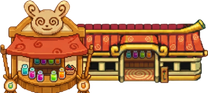
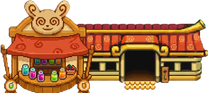
Darken cafe doorway and add light scallops on the threshold
The main entrance no longer shows the interior wall and spiral carpet: the
opening is filled with shadow warming toward the floor, and a row of golden
half-circles spills onto the doorstep, matching Halcyon's cafe door.

Generated from the source image, then re-cut to the exact source frame. The
generator returns an enlarged RGB PNG with the preview checkerboard baked in,
so nettoyer_sortie_generee.py restores transparency by reusing the source
alpha plus the genuinely new coloured pixels (the 875px of scallops).

diff --git a/tileset_pmd/nettoyer_sortie_generee.py b/tileset_pmd/nettoyer_sortie_generee.py
@@ -1,0 +1,80 @@
+from __future__ import annotations
+
+"""Remet une image generee au format exact de la source, fond transparent.
+
+Le generateur renvoie un PNG agrandi et SANS canal alpha : le damier de
+transparence de l'apercu est peint en dur, avec du bruit de compression. Le
+detourer par la couleur laisse toujours un quadrillage residuel.
+
+Methode retenue, bien plus fiable : l'image source possede deja un alpha
+parfait, et la generation est cadree de la meme facon (verifie : ecart moyen
+de 20/255 sur la zone opaque, 220/255 sur le fond). On reutilise donc l'alpha
+de la source, en y ajoutant les zones ou la generation a legitimement ajoute
+de la matiere en dehors du sujet d'origine (ici les festons de lumiere qui
+debordent sous le seuil de la porte).
+
+Usage :
+    python3 nettoyer_sortie_generee.py <source.png> <generee.png> <sortie.png>
+"""
+
+from pathlib import Path
+import sys
+
+from PIL import Image, ImageFilter
+import numpy as np
+
+
+def main() -> int:
+    if len(sys.argv) < 4:
+        print(__doc__)
+        return 1
+    src_p, gen_p, out_p = (Path(a) for a in sys.argv[1:4])
+
+    src = Image.open(src_p).convert("RGBA")
+    gen = Image.open(gen_p).convert("RGB").resize(src.size, Image.LANCZOS)
+    print(f"Source  : {src.size}")
+    print(f"Generee : {Image.open(gen_p).size} -> recadree en {gen.size}")
+
+    sa = np.array(src).astype(int)
+    ga = np.array(gen).astype(int)
+    r, g, b = ga[:, :, 0], ga[:, :, 1], ga[:, :, 2]
+
+    # Le damier est strictement gris neutre. Tout ce qui est colore est du sujet.
+    neutral = (abs(r - g) <= 10) & (abs(g - b) <= 10) & (abs(r - b) <= 10)
+
+    src_alpha = sa[:, :, 3]
+    keep = src_alpha > 8                      # le sujet d'origine
+
+    # Matiere ajoutee par la generation en dehors du sujet : non neutre, donc
+    # ni damier ni fond. C'est ce qui laisse passer les festons de lumiere.
+    added = (~neutral) & (~keep)
+
+    # On ne garde que les ajouts formant des amas francs, pour ecarter le
+    # lisere de compression qui borde le sujet.
+    amas = Image.fromarray((added * 255).astype(np.uint8), "L")
+    amas = amas.filter(ImageFilter.MedianFilter(5))
+    added = np.array(amas) > 127
+
+    mask = keep | added
+
+    out = np.zeros_like(sa, dtype=np.uint8)
+    out[:, :, :3] = ga[:, :, :3]
+    # Alpha : celui de la source la ou elle existe (bords antialiases
+    # preserves), plein pour la matiere ajoutee.
+    alpha = np.where(keep, src_alpha, 0)
+    alpha = np.where(added, 255, alpha)
+    out[:, :, 3] = alpha
+    out[~mask] = (0, 0, 0, 0)
+
+    im = Image.fromarray(out, "RGBA")
+    im.save(out_p)
+
+    print(f"Sujet source   : {int(keep.sum())} px")
+    print(f"Matiere ajoutee: {int(added.sum())} px (festons sous le seuil)")
+    print(f"Sortie  : {im.size}  transparent={int((alpha == 0).sum())} px"
+          f"  -> {out_p}")
+    return 0
+
+
+if __name__ == "__main__":
+    sys.exit(main())

diff --git a/spinda_cafe/README.md b/spinda_cafe/README.md
@@ -30,15 +30,42 @@ soit 8 px de moins que les 101 px de la référence — c'est normal, ton bâtim
 un peu moins haut *proportionnellement*. Le forcer à 101 px l'aurait étiré
 verticalement et déformé.
 
+## Jeu d'ombre et de lumière sur la porte
+
+L'entrée principale est désormais **fermée visuellement** : on ne voit plus le mur
+du fond ni le tapis spiralé à travers l'embrasure. L'ouverture est remplie d'une
+ombre noire qui se réchauffe légèrement vers le sol, et une rangée de **petits
+demi-cercles dorés** déborde sur le seuil, comme la lumière de l'intérieur qui se
+répand devant la porte. C'est le même traitement que la porte du café de Halcyon.
+
+Cette version a été produite par le générateur d'image à partir de
+`spindacafevFINAL.png`, puis remise au format exact de la source.
+
+### Détourage du fond
+
+Le générateur renvoie un PNG agrandi **sans canal alpha** : le damier de
+transparence de l'aperçu est peint en dur, avec du bruit de compression. Le
+détourer par la couleur laissait toujours un quadrillage résiduel visible.
+
+`../tileset_pmd/nettoyer_sortie_generee.py` procède autrement : l'image source a
+déjà un alpha parfait et la génération est cadrée de la même façon (écart moyen
+mesuré : 20/255 sur la zone opaque contre 220/255 sur le fond). Le script
+**réutilise donc l'alpha de la source**, en y ajoutant la matière franchement
+colorée apparue hors du sujet d'origine — ce qui laisse passer les 875 px de
+festons qui débordent sous le seuil.
+
 ## Fichiers produits
 
 | Fichier | Taille | Usage |
 |---|---|---|
+| `spindacafevFINAL_porte.png` | 425 × 251 | **source retravaillée** : porte assombrie + festons |
 | `spinda_cafe_taille_halcyon.png` | 221 × 131 | image complète (tapis compris) à la bonne échelle |
 | `spinda_cafe_batiment.png` | **208 × 93** | bâtiment seul, recadré — la façade à la taille de Halcyon |
 | `spinda_cafe_pmdo_grille8.png` | 208 × 96 | calé sur la grille 8 px → **26 × 12 cellules**, prêt à découper en `.tile` |
 | `spinda_cafe_comparaison.png` | — | côte à côte avec la référence |
 | `cafe_halcyon_reference.png` | 208 × 101 | la façade Halcyon extraite, pour contrôle |
+| `spindacafevFINAL.png` | 425 × 251 | l'original intact, conservé |
+| `_generation_brute.png` | 1327 × 784 | sortie brute du générateur, avant détourage |
 
 ## Pourquoi LANCZOS et pas NEAREST
 
@@ -54,5 +81,10 @@ pixel-art (palette réduite, alpha binaire), c'est `NEAREST` qu'il faudrait util
 ## Régénérer
 
 ```bash
-python3 ../tileset_pmd/redim_spinda_cafe.py spindacafevFINAL.png
+# 1. détourer la sortie du générateur et la remettre au format source
+python3 ../tileset_pmd/nettoyer_sortie_generee.py \
+    spindacafevFINAL.png _generation_brute.png spindacafevFINAL_porte.png
+
+# 2. remettre à l'échelle du café de Halcyon
+python3 ../tileset_pmd/redim_spinda_cafe.py spindacafevFINAL_porte.png
 ```
